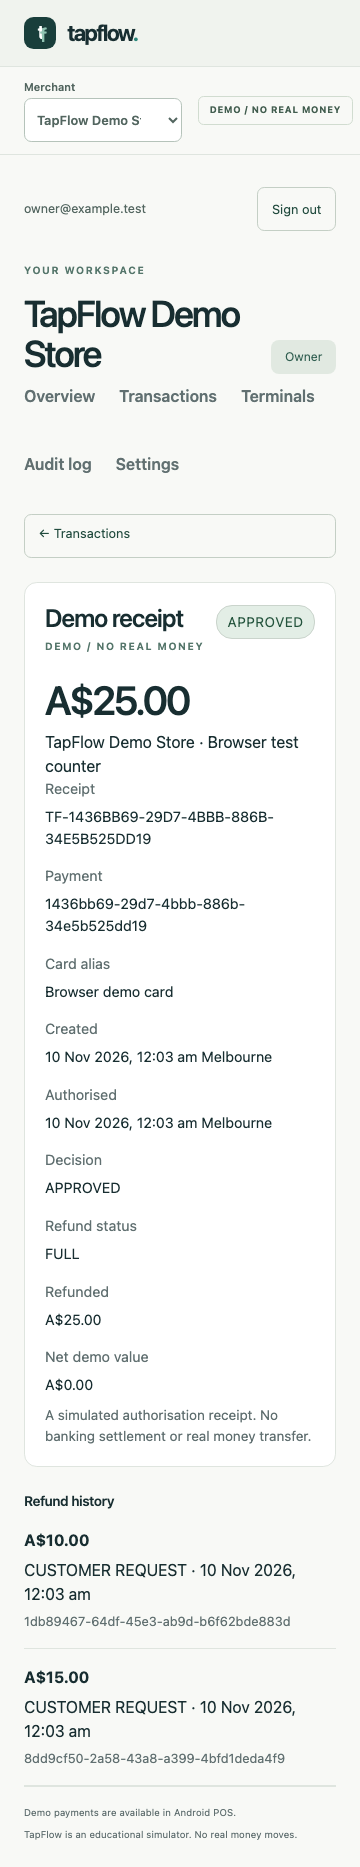
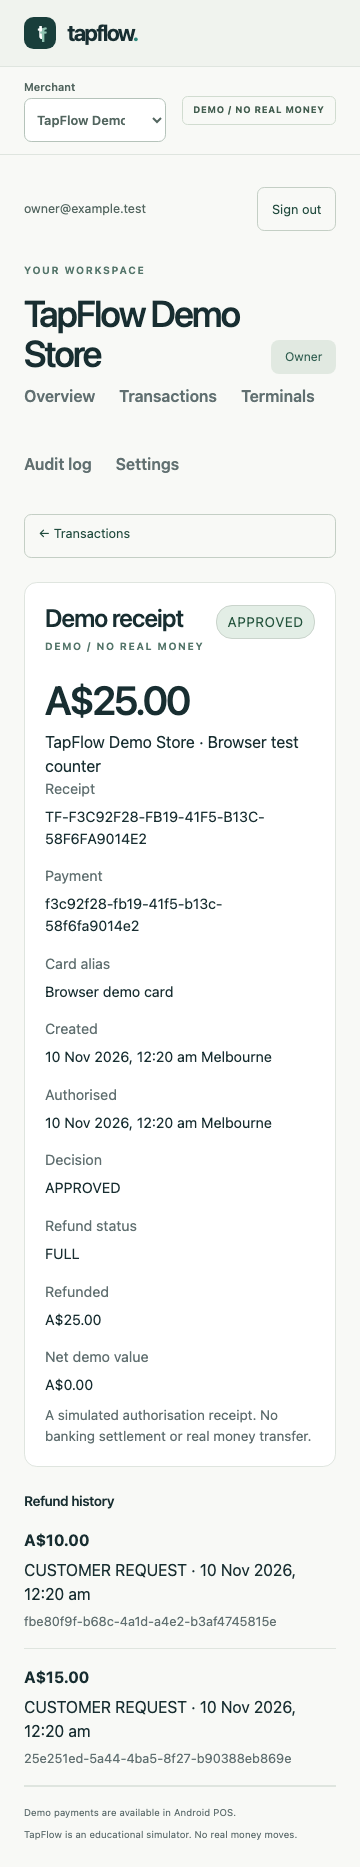
fix(web): keep merchant header within narrow viewports

diff --git a/apps/web/e2e/merchant.spec.ts b/apps/web/e2e/merchant.spec.ts
@@ -105,6 +105,29 @@ async function fixture(request: APIRequestContext, amount = 2500) {
     post,
   }
 }
+async function expectNoOverflow(page: Page) {
+  const overflow = await page.evaluate(() =>
+    [...document.querySelectorAll('body *')]
+      .map((element) => {
+        const rect = element.getBoundingClientRect()
+        return {
+          tag: element.tagName,
+          class: element.className,
+          right: rect.right,
+          left: rect.left,
+        }
+      })
+      .filter(
+        (element) => element.right > innerWidth + 0.5 || element.left < -0.5,
+      ),
+  )
+  expect(overflow).toEqual([])
+  const size = await page.evaluate(() => ({
+    width: document.documentElement.scrollWidth,
+    viewport: innerWidth,
+  }))
+  expect(size.width).toBeLessThanOrEqual(size.viewport)
+}
 async function browserLogin(page: Page, email = 'owner@example.test') {
   await page.goto('/login')
   await page.getByLabel('Email', { exact: true }).fill(email)
@@ -188,15 +211,16 @@ test('owner issues partial and full refunds; wallet, report and audit reconcile'
   await expect(
     page.getByRole('heading', { name: 'Demo receipt' }),
   ).toBeVisible()
-  expect(
-    await page.evaluate(
-      () => document.documentElement.scrollWidth <= innerWidth,
-    ),
-  ).toBe(true)
   await page.screenshot({
     path: 'test-results/phase6-receipt-mobile.png',
     fullPage: true,
   })
+  await expectNoOverflow(page)
+  await page.addStyleTag({
+    content: 'html { font-family: Verdana, sans-serif; }',
+  })
+  await expectNoOverflow(page)
+
   await page
     .getByRole('navigation', { name: 'Merchant pages' })
     .getByRole('link', { name: 'Transactions' })
@@ -204,11 +228,7 @@ test('owner issues partial and full refunds; wallet, report and audit reconcile'
   await expect(
     page.getByRole('link', { name: f.receipt, exact: true }),
   ).toBeVisible()
-  expect(
-    await page.evaluate(
-      () => document.documentElement.scrollWidth <= innerWidth,
-    ),
-  ).toBe(true)
+  await expectNoOverflow(page)
   await page.getByRole('button', { name: 'Sign out', exact: true }).click()
   await expect(
     page.getByRole('button', { name: 'Sign in', exact: true }),

diff --git a/apps/web/src/styles.css b/apps/web/src/styles.css
@@ -1165,3 +1165,14 @@ select {
     font-size: 0.83rem;
   }
 }
+@media (max-width: 760px) {
+  .topbar .merchant-select {
+    flex: 1;
+    min-width: 0;
+  }
+  .topbar .merchant-select select {
+    width: 100%;
+    min-width: 0;
+    max-width: 100%;
+  }
+}

diff --git a/docs/testing.md b/docs/testing.md
@@ -201,7 +201,9 @@ phones. Two-phone NFC and Android Studio sync with the pinned AGP remain unverif
   wallet is A$85 and history contains exactly one A$10 refund.
 - Browser checks run at 1440×1000 and 360×800, reduced motion, en-AU locale and
   Australia/Melbourne timezone. Navigation targets do not overlap and reach 44px;
-  mobile receipt/list has no horizontal overflow; no application pageerror occurs.
+  mobile receipt/list has no horizontal overflow, including a wider fallback font;
+  no application pageerror occurs. A Linux CI overflow was traced to the selector
+  retaining intrinsic width; mobile flex/grid minimum sizing now allows it to shrink.
   Actual [overview](screenshots/phase6-overview-desktop.png) and
   [mobile receipt](screenshots/phase6-receipt-mobile.png) were visually inspected.
 - Android: all 15 existing emulator instrumentation tests pass without skips
